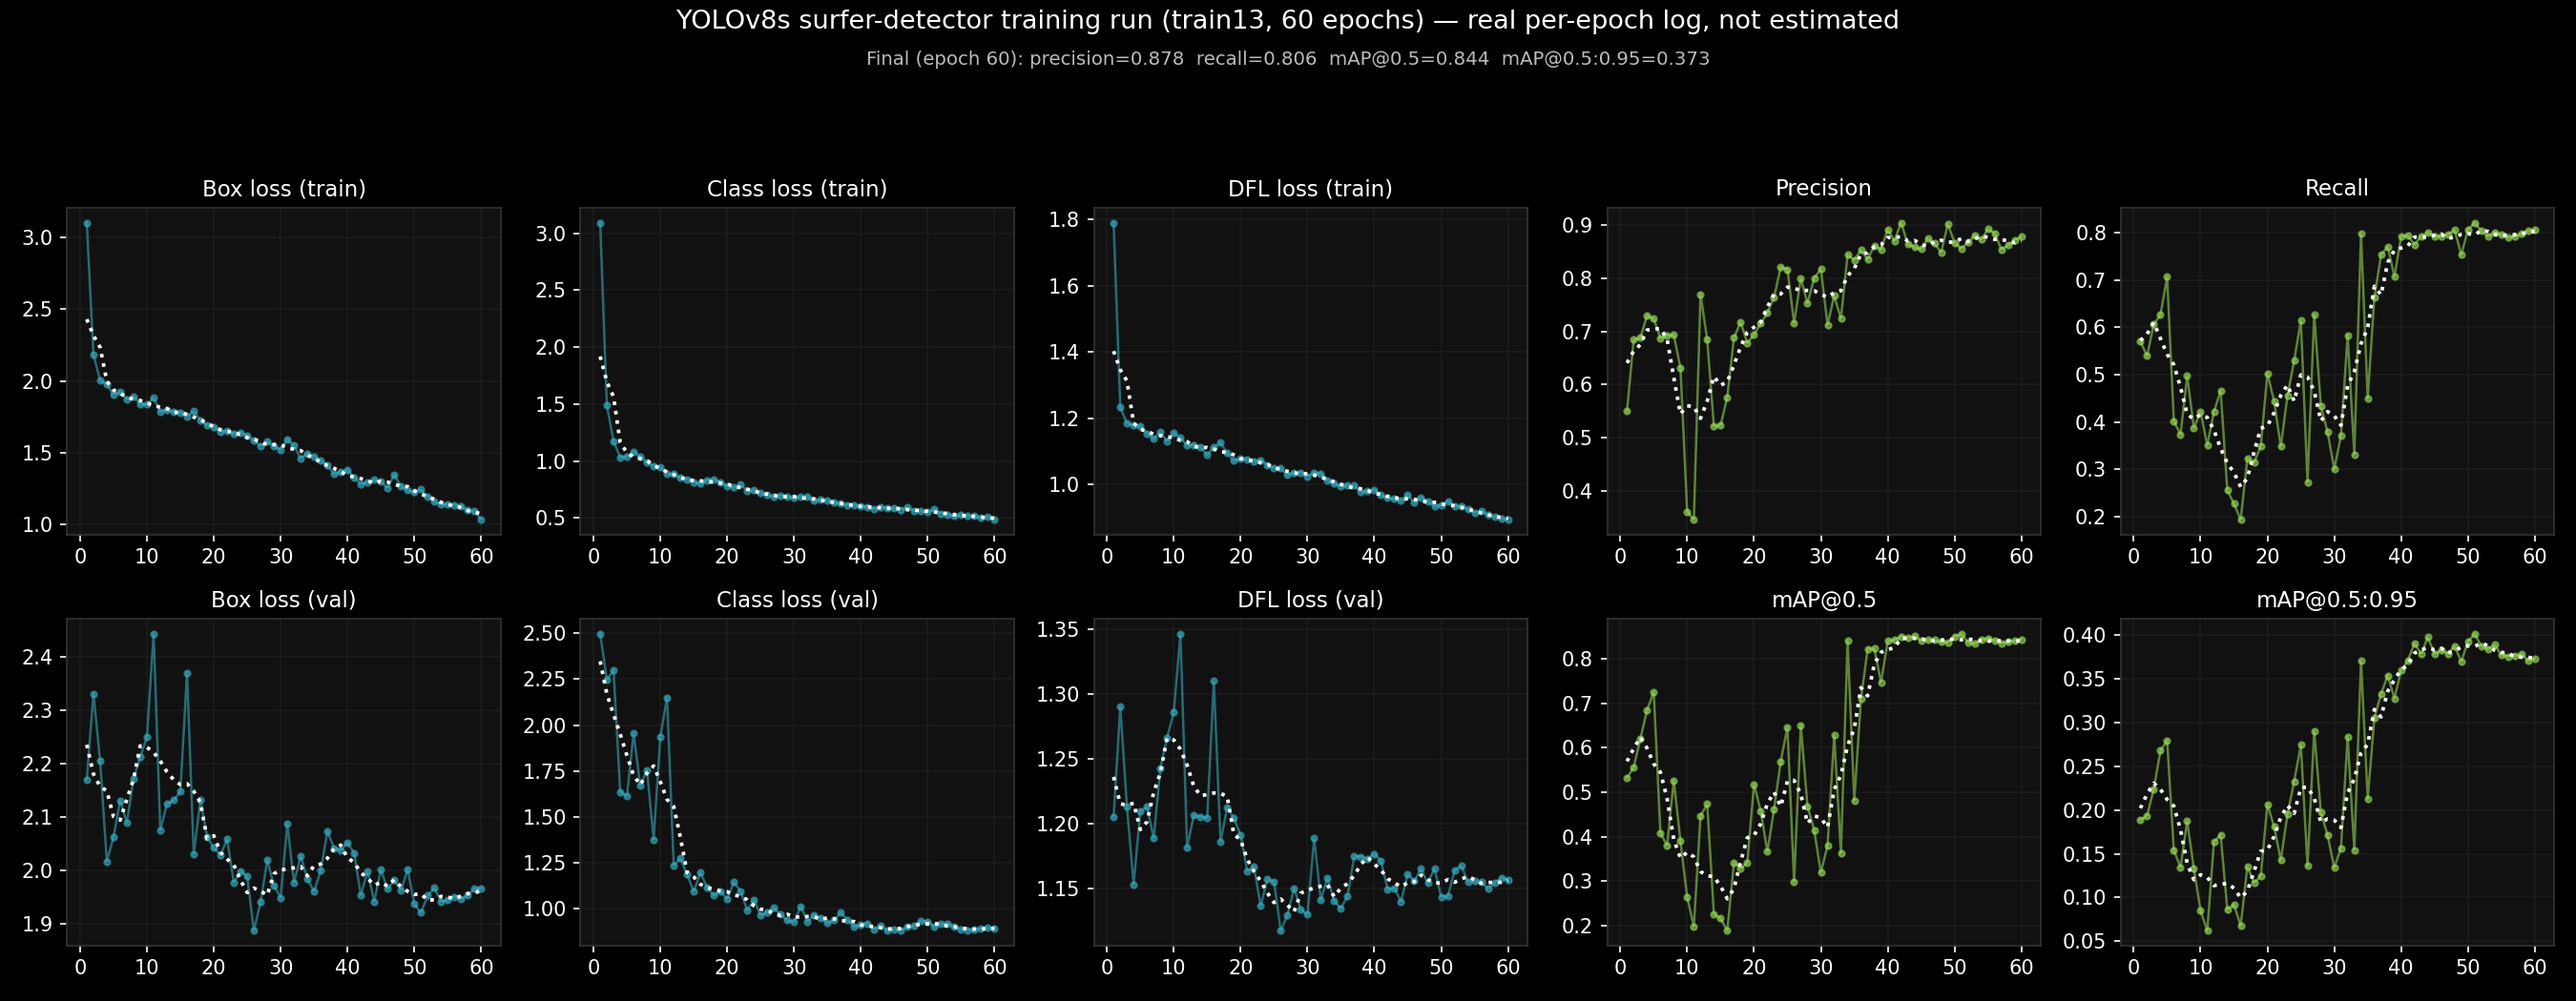
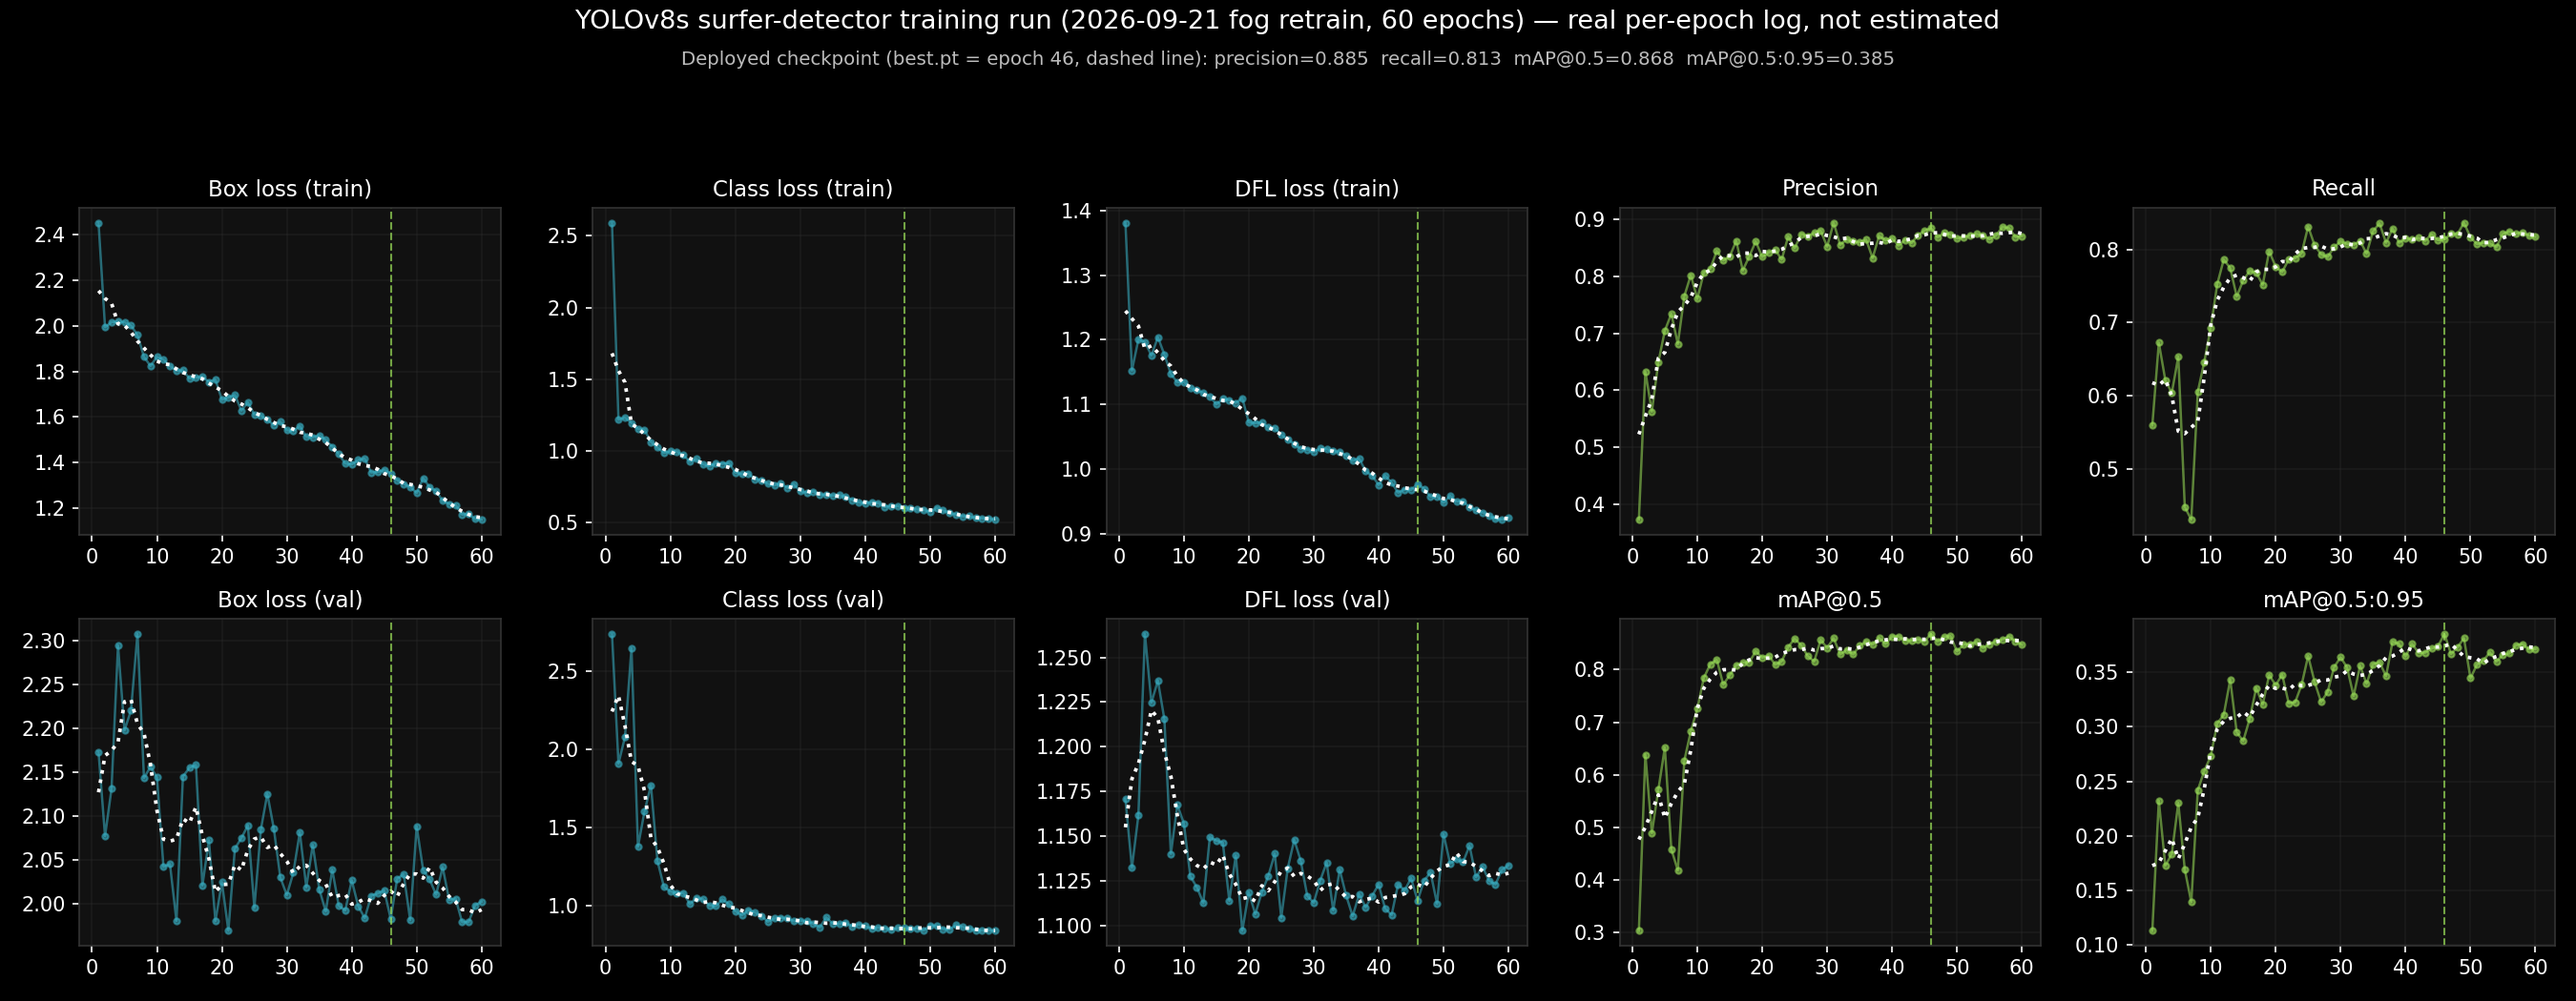
Adopt the fog-retrained detector in production
MODEL_PATH in .env (local, not committed) now points at the 2026-09-21
retrain, approved by Joel. Chart footer constants move to that checkpoint's
validation metrics (0.88461 / 0.81342, epoch 46), and the footer names it.

README's detector section and chart now describe the retrained model. The chart
script marks the deployed checkpoint rather than quoting the final epoch, and
the README notes the new run's mild overfitting signal: validation DFL loss
rises after about epoch 40, which is why best.pt is epoch 46.

Today's chart and detection animation regenerated on the new model.

The code default MODEL_PATH and the weights committed to the public repo are
unchanged, still the October 2025 model; the retrained weights are not
published, and the README says so.

Claude-Session: https://claude.ai/code/session_01C2GCpQELsJRUSZjSZDcA3i

diff --git a/analysis/detector_training_metrics/plot_training_metrics.py b/analysis/detector_training_metrics/plot_training_metrics.py
@@ -2,11 +2,17 @@
 plot_training_metrics.py
 ---------------------------
 Dark-themed remake of Ultralytics' own results.png for the production
-YOLOv8s detector's training run, using the same real per-epoch log
-(data/model_out/20251013/train/runs/detect/train13/results.csv, 60 epochs)
--- no re-training, no re-estimating, just restyling real numbers that were
-already sitting unused in a light-background file that didn't match the
-rest of the project's dark aqua/lime theme.
+YOLOv8s detector's training run, from its real per-epoch log -- no
+re-training, no re-estimating, just restyling real numbers.
+
+Points at whichever run is in production (RESULTS_CSV below). Since
+2026-09-21 that is the fog retrain; the original October 2025 run
+(train13) is the previous production model and remains in git history.
+
+The chart marks the DEPLOYED checkpoint (best.pt, the epoch with the best
+mAP@0.5:0.95) rather than quoting the final epoch: quoting epoch 60 for a
+best.pt that was really epoch 51 is exactly the reporting error found on
+2026-09-11.
 
 Usage:
     python analysis/detector_training_metrics/plot_training_metrics.py
@@ -19,7 +25,8 @@ from pathlib import Path
 
 HERE = Path(__file__).resolve().parent
 PROJECT_ROOT = HERE.parent.parent
-RESULTS_CSV = PROJECT_ROOT / "data" / "model_out" / "20251013" / "train" / "runs" / "detect" / "train13" / "results.csv"
+RESULTS_CSV = PROJECT_ROOT / "data" / "model_out" / "20260921_fog" / "train" / "results.csv"
+RUN_LABEL = "2026-09-21 fog retrain"
 
 AQUA = "#3ab4c9"
 LIME = "#9de35a"
@@ -65,17 +72,22 @@ for ax, (col, title) in zip(axes, PANELS):
     for spine in ax.spines.values():
         spine.set_color(GRID)
 
+n_epochs = int(df["epoch"].max())
+best = df.loc[df["metrics/mAP50-95(B)"].idxmax()]
+best_epoch = int(best["epoch"])
+for ax in fig.axes:
+    ax.axvline(best_epoch, color=LIME, linestyle="--", linewidth=1.0, alpha=0.7)
 fig.suptitle(
-    "YOLOv8s surfer-detector training run (train13, 60 epochs) — real per-epoch log, "
+    f"YOLOv8s surfer-detector training run ({RUN_LABEL}, {n_epochs} epochs) — real per-epoch log, "
     "not estimated", color=TEXT, fontsize=13, y=0.99,
 )
-final = df.iloc[-1]
 fig.text(
     0.5, 0.935,
-    f"Final (epoch 60): precision={final['metrics/precision(B)']:.3f}  "
-    f"recall={final['metrics/recall(B)']:.3f}  "
-    f"mAP@0.5={final['metrics/mAP50(B)']:.3f}  "
-    f"mAP@0.5:0.95={final['metrics/mAP50-95(B)']:.3f}",
+    f"Deployed checkpoint (best.pt = epoch {best_epoch}, dashed line): "
+    f"precision={best['metrics/precision(B)']:.3f}  "
+    f"recall={best['metrics/recall(B)']:.3f}  "
+    f"mAP@0.5={best['metrics/mAP50(B)']:.3f}  "
+    f"mAP@0.5:0.95={best['metrics/mAP50-95(B)']:.3f}",
     color="#bbbbbb", fontsize=9.5, ha="center",
 )
 
@@ -83,6 +95,6 @@ fig.tight_layout(rect=[0, 0, 1, 0.89])
 out_path = HERE / "detector_training_metrics.png"
 fig.savefig(out_path, dpi=150)
 print(f"Saved {out_path}")
-print(f"\nFinal epoch (60) real values: precision={final['metrics/precision(B)']:.5f} "
-      f"recall={final['metrics/recall(B)']:.5f} mAP50={final['metrics/mAP50(B)']:.5f} "
-      f"mAP50-95={final['metrics/mAP50-95(B)']:.5f}")
+print(f"\nDeployed checkpoint (epoch {best_epoch}) real values: "
+      f"precision={best['metrics/precision(B)']:.5f} recall={best['metrics/recall(B)']:.5f} "
+      f"mAP50={best['metrics/mAP50(B)']:.5f} mAP50-95={best['metrics/mAP50-95(B)']:.5f}")

diff --git a/code/plot_daily_prediction.py b/code/plot_daily_prediction.py
@@ -65,13 +65,15 @@ CHARTS_DIR = _PROJECT_ROOT / "data" / "charts"
 # results.csv, final epoch 60), not estimated. "Specificity" isn't a standard
 # object-detection metric (no fixed universe of negative boxes to measure against,
 # unlike binary classification) — recall is the direct analog to sensitivity.
-# Measured on the validation split for the checkpoint actually deployed —
-# best.pt, which is epoch 51, not the final epoch 60. These were previously the
-# epoch-60 numbers (0.87843 / 0.80618), which describe a checkpoint that was
-# never shipped; see PROJECT_HISTORY.md's 2026-09-11 entry. Reproduce with
-# `python code/eval_detector.py --split val`.
-DETECTOR_PRECISION = 0.85634
-DETECTOR_RECALL = 0.82047  # = sensitivity
+# Validation metrics for the checkpoint actually deployed: best.pt of the
+# 2026-09-21 fog retrain, which is epoch 46 of 60 (training log,
+# data/model_out/20260921_fog/train/results.csv). Adopted 2026-09-21, replacing
+# the October 2025 model (0.85634 / 0.82047, its epoch 51). Measured on a
+# harder validation split than the previous model's — it now includes hazy fog
+# frames — so the two pairs are not directly comparable; see PROJECT_HISTORY.md
+# 2026-09-21 for the like-for-like whole-frame count comparison.
+DETECTOR_PRECISION = 0.88461
+DETECTOR_RECALL = 0.81342  # = sensitivity
 
 # Dataset-wide hour range the model has ANY training examples for (used only to flag
 # extrapolated hours below) — NOT the same thing as "is it light on this specific day",
@@ -281,7 +283,7 @@ def main():
         f"Model: gradient-boosted trees (quantile regression), point estimate = median model  "
         f"|  Top predictors (live fit): {predictors_str}\n"
         f"Refit this run on {len(df):,} detection-hours, {df['date'].min()} to {df['date'].max()}  "
-        f"|  Surfer detector (YOLOv8s, train13 — actual training log): "
+        f"|  Surfer detector (YOLOv8s, Sept 2026 fog retrain — actual training log): "
         f"precision {DETECTOR_PRECISION:.1%}, recall {DETECTOR_RECALL:.1%}"
     )
     if degenerate_levels:

diff --git a/README.md b/README.md
@@ -14,7 +14,7 @@ This project collects images from a shoreline video camera and tries to answer t
 Each green box below contains a surfer, according to the object detection model.  Each number above a box indicates the probability that the object is a surfer.  Look carefully and you may find additional surfers that the model missed or other objects which are misclassified as surfers - like the wind sock at the bottom center of the photo.  Each frame is one hour of that day, one second apart, and the ends of the camera's view are cropped off so the surfers are big enough to see.
 ![Detections through Sunday, September 20, 2026](data/charts/latest_detection.gif)
 
-#### The Surfer Crowd Forecast for: Monday, September 21, 2026
+#### The Surfer Crowd Forecast for: Tuesday, September 22, 2026
 
 Once enough hours and days were gathered along with weather and surf conditions, a surf count prediction model was built to forecast how many surfers would be present at each hour for the coming day.  This is useful for surfers to plan to avoid busy times or at least know what to expect.  Recently the predictions have been low compared to actual counts, so more images are being collected to improve the object detection model's ability to find surfers in a variety of light and water conditions, like fog or choppy water surfaces.
 ![Latest daily prediction chart](data/charts/latest.png)
@@ -189,7 +189,8 @@ itself.
 ### Detector Training Metrics
 
 Real per-[epoch](docs/HOW_IT_WORKS.md#term-epoch) training log for the
-production YOLOv8s surfer detector (60 epochs) — 10 charts tracking how
+production YOLOv8s surfer detector — the September 2026 retrain, which added
+labeled fog, glare and pose data (60 epochs) — 10 charts tracking how
 training went, not estimated after the fact. The white dotted line on
 each chart is a 5-epoch rolling average, to make the trend easier to
 see through the epoch-to-epoch noise.
@@ -203,16 +204,17 @@ see through the epoch-to-epoch noise.
   three loss measurements, but on the held-out validation images the
   model never trains on. This is the more meaningful set of loss
   charts, since it shows how the model does on images it hasn't
-  memorized. They trend downward too, with more visible noise
-  (validation is a much smaller set of images than training) but no
-  sign of the val loss rising while train loss keeps falling, which
-  would signal overfitting.
+  memorized. Box and class loss trend downward with more visible noise (validation
+  is a much smaller set than training). **DFL loss creeps back up after
+  about epoch 40** while the training DFL loss keeps falling — a mild
+  sign of overfitting, and the reason the deployed checkpoint is taken
+  from epoch 46 rather than the end of training.
 - **Top row, last 2 charts (lime): [precision](docs/HOW_IT_WORKS.md#term-precision)
   and [recall](docs/HOW_IT_WORKS.md#term-recall)** — both computed on
   the validation set each epoch, not the training data, so they reflect
   genuine model performance rather than how well it memorized what it
-  trained on. Both climb from noisy, mediocre starting values toward
-  their final ~88%/~81%, with a rough patch in the first ~15 epochs
+  trained on. Both climb from noisy, mediocre starting values to about 88% and
+  81%, with a rough patch in the first ~15 epochs
   where the model still hasn't learned much and both metrics swing
   widely epoch to epoch.
 - **Bottom row, last 2 charts (lime): [mAP](docs/HOW_IT_WORKS.md#term-map)@0.5
@@ -226,18 +228,26 @@ see through the epoch-to-epoch noise.
 ![YOLOv8s detector training metrics — loss, precision, recall, mAP over 60 epochs](analysis/detector_training_metrics/detector_training_metrics.png)
 
 The charts run to epoch 60, but the checkpoint actually deployed is
-`best.pt` — **epoch 51**, the epoch with the best mAP@0.5:0.95, which is
-what the training run saves as "best". Measured on the validation set, that
-deployed checkpoint gets **precision 85.6%, recall 82.0%, mAP@0.5 85.6%,
-mAP@0.5:0.95 40.1%** — slightly less precise and slightly more sensitive
-than epoch 60's 87.8%/80.6%. These are the numbers cited in the daily
-chart's caption, and you can re-derive them yourself from this repo with
-`eval_detector.py` (see [Run It Yourself](#run-it-yourself-no-account-needed)).
-Note
-mAP@0.5:0.95 (37.3%) is much lower than mAP@0.5 (84.4%): it's an average
-over much stricter box-overlap requirements (up to near-perfect box
-placement), not a sign the model is actually worse than the headline
-84.4% number suggests.
+`best.pt` — **epoch 46** (dashed line), the epoch with the best
+mAP@0.5:0.95, which is what the training run saves as "best". On the
+validation set it gets **precision 88.5%, recall 81.3%, mAP@0.5 86.8%,
+mAP@0.5:0.95 38.5%**. These are the numbers cited in the daily chart's
+caption. They are measured on a harder validation set than the previous
+model's, which now includes hazy fog frames, so they don't compare directly
+with its 85.6%/82.0%.
+
+The comparison that matters is whole-frame surfer counts on frames neither
+model trained on. On hazy frames the new model finds **98%** of the real
+surfers, against **59%** for the previous one; across all held-out frames
+the average error per frame fell from 5.16 surfers to 0.94. Against
+independent hand counts, its average error per frame halved (2.61 → 1.28).
+The one regression: on ordinary clear-day frames it now counts slightly
+high, about 3–7%.
+
+Note that mAP@0.5:0.95 (38.5%) is much lower than mAP@0.5 (86.8%): it's an
+average over much stricter box-overlap requirements (up to near-perfect box
+placement), not a sign the model is worse than the headline number
+suggests.
 
 ## Surfer Count Prediction Model
 
@@ -404,7 +414,9 @@ python code/eval_detector.py --split val     # reproduces the numbers quoted abo
 It reports two different things. First, per-box precision, recall and
 [mAP](docs/HOW_IT_WORKS.md#term-map) on the tiles — the same measurement the
 training log made, which is why `--split val` reconciles against the
-published 85.6%/82.0%. Second, and more to the point, **count accuracy on
+previous model's published 85.6%/82.0% — the weights committed to this repo
+are still the October 2025 model; the retrained production weights have not
+been published yet. Second, and more to the point, **count accuracy on
 whole frames**: it runs the real production inference path (tiling,
 cross-tile [NMS](docs/HOW_IT_WORKS.md#term-nms), false-positive filtering) on
 each test image and compares the surfer count to the number of labeled boxes.

diff --git a/docs/PROJECT_HISTORY.md b/docs/PROJECT_HISTORY.md
@@ -3771,3 +3771,34 @@ model merely learning the current labeling style:
    predicted, at small scale.
 
 Not adopted yet: production `MODEL_PATH` is unchanged pending Joel's decision.
+
+### Retrained detector adopted into production (2026-09-21)
+
+Joel approved the switch. `MODEL_PATH` in `.env` now points at
+`data/model_out/20260921_fog/train/weights/best.pt`, so tonight's LaunchAgent
+run — `local_pipeline.sh` and `daily_chart.sh` both load `.env` — detects with
+the retrained model. Confirmed the pipeline resolves that path.
+
+Also updated to describe the model actually running:
+
+- **Chart footer** constants: precision 0.88461 / recall 0.81342 (epoch 46,
+  training log), replacing the October model's 0.85634 / 0.82047. The footer
+  names the Sept 2026 retrain.
+- **README "Detector Training Metrics"**, including the chart, regenerated from
+  the new run's log. The chart script now marks the *deployed* checkpoint with a
+  dashed line and quotes its numbers rather than the final epoch's — the same
+  epoch-60-vs-best.pt confusion fixed on 2026-09-11. The README also now
+  records what the new chart shows: **validation DFL loss creeps up after about
+  epoch 40** while training DFL keeps falling, a mild overfitting signal the
+  October run did not have, and why the checkpoint comes from epoch 46.
+- **Today's chart and detection animation** regenerated on the new model, so
+  what the README shows matches what production runs.
+
+**Deliberately not changed, pending Joel:** the code default `MODEL_PATH` and
+the weights committed to the public repo are still the October 2025 model. The
+retrained weights have not been published, and the README says so where it
+explains `eval_detector.py`'s reconciliation. That decision is tied to a
+dataset-publication problem found during this change (next entry).
+
+`CLAUDE.md` gained a rule: never change a `.env` value without Joel's explicit
+approval, every time.
